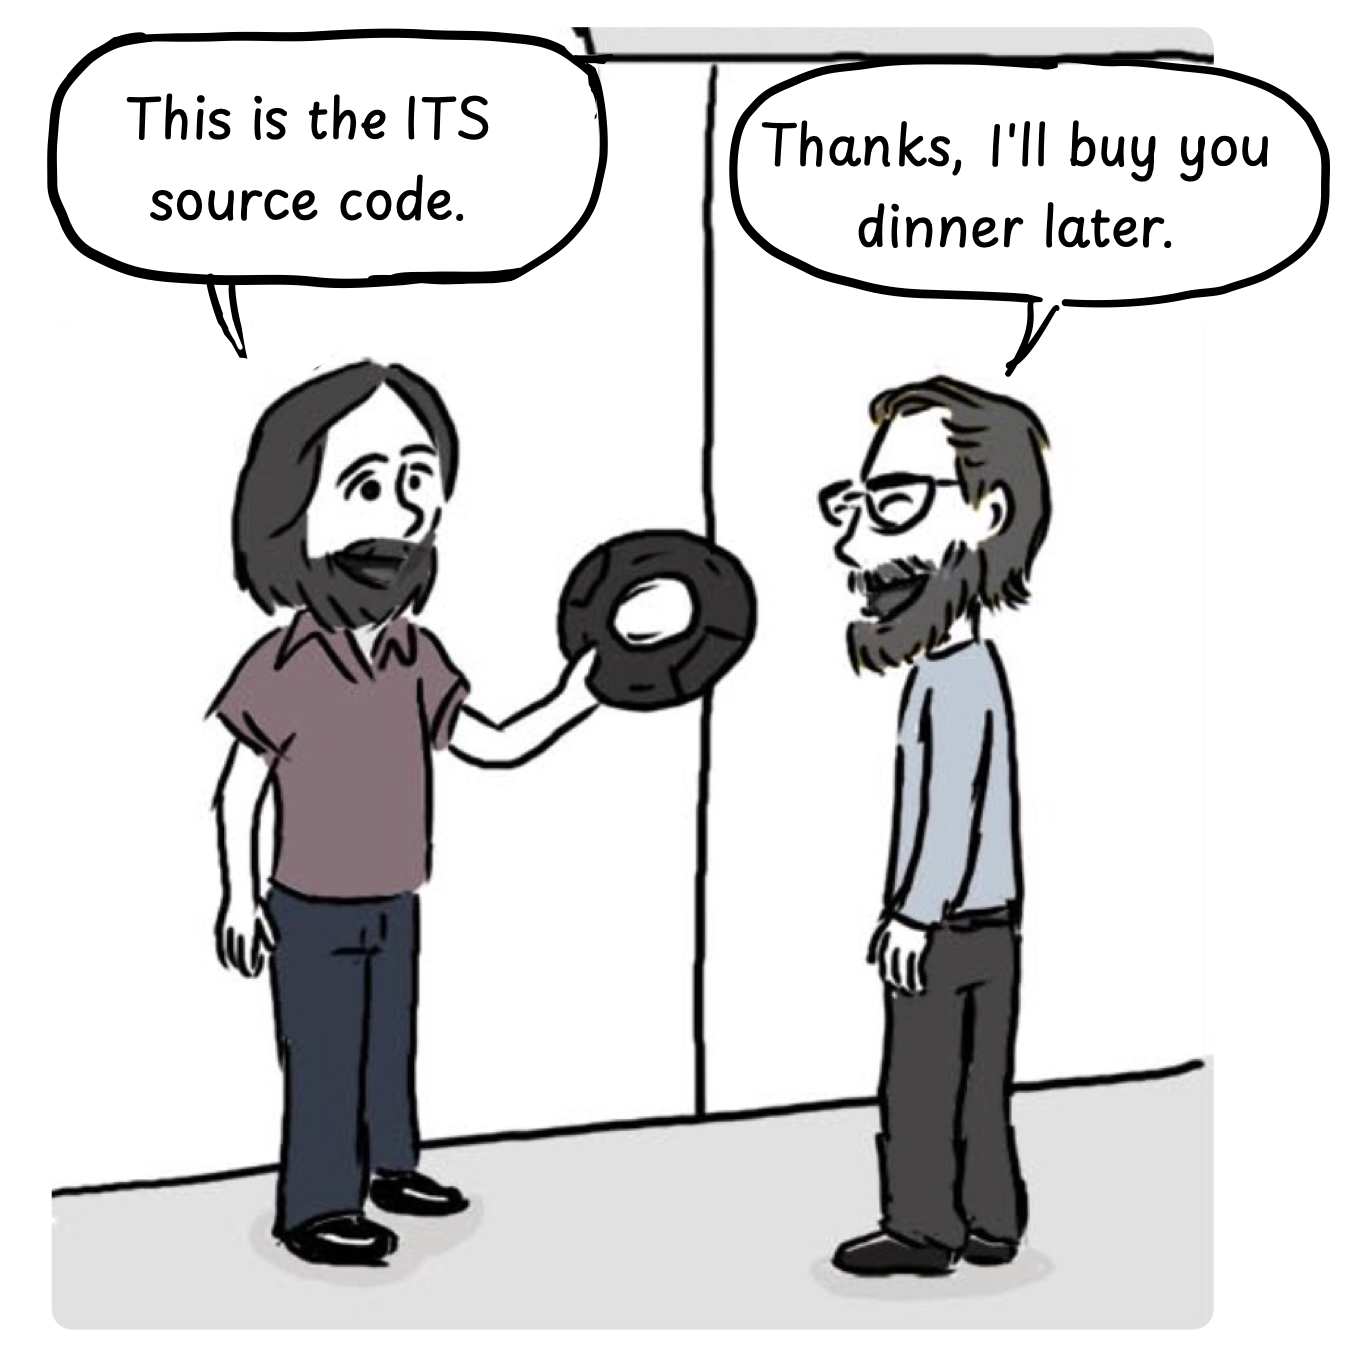
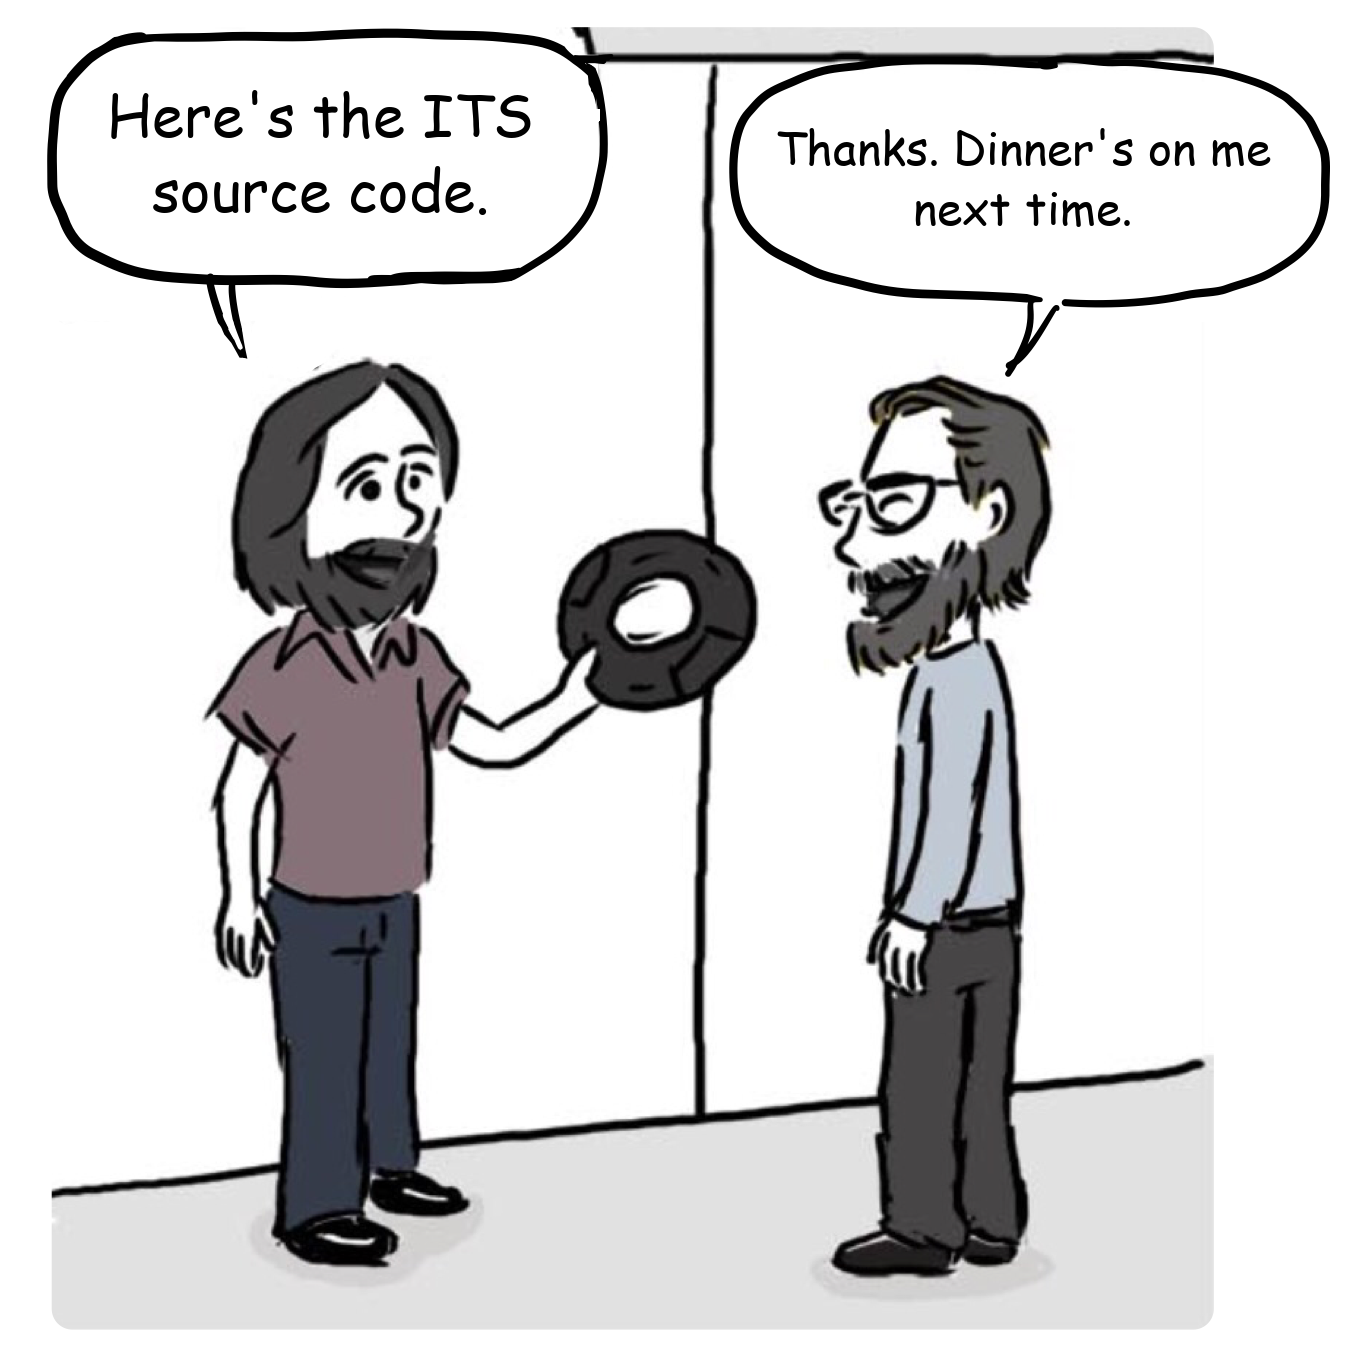
Revise ITS and hacker culture episode

Changed region(s): [[0.0619, 0.0615, 0.4021, 0.1845], [0.5567, 0.0922, 0.9588, 0.1845]]

diff --git a/content/posts/7. ITS and Hacker Culture/index.md b/content/posts/7. ITS and Hacker Culture/index.md
@@ -6,98 +6,100 @@ description: The hacker culture at MIT began with the Tech Model Railroad Club, 
 tags: ITS, Hacker, PDP-1, PDP-6, DEC, ARPAnet, MIT AI Lab, Multics
 ---
 
-The hacker culture started with the [Tech Model Railroad Club](https://www.google.com/url?q=https://en.wikipedia.org/wiki/Tech_Model_Railroad_Club\&sa=D\&source=editors\&ust=1711344849233469\&usg=AOvVaw2jW8lhPjzCxir-TXAa-SBG) at MIT. This club made moving model trains and studied how the trains would not collide with each other[&lbrack;1&rbrack;][1].
+Hacker culture began with MIT's [Tech Model Railroad Club](https://en.wikipedia.org/wiki/Tech_Model_Railroad_Club). Its members built working model trains and studied how to keep them from colliding[&lbrack;1&rbrack;][1].
 
 ![](images/7-1.png)
-> “How can we keep trains from colliding with each other?”\
-> "Well"\
-> "Wouldn't it be possible to control the trains with the newly introduced computer PDP-1?"
+> "How do we keep the trains from crashing?"\
+> "Hmm..."\
+> "What if we controlled them with the new PDP-1?"
 
 ![](images/7-2.png)
-> “You control the trains with PDP-1?” \
-> “Yeah, we can implement a train control program.”
+> "Control the trains with the PDP-1?" \
+> "Sure. We'd just write a control program."
 
-For reference, the video below shows why a computer is needed to control a moving model train.
+The video below shows why a computer was needed to control moving model trains.
 <div style="text-align:center">
 <iframe width="560" height="315" src="https://www.youtube.com/embed/dqLUUXWgba4?si=f4QZp3gTxWdDRnrt" title="YouTube video player" frameborder="0" allow="accelerometer; autoplay; clipboard-write; encrypted-media; gyroscope; picture-in-picture; web-share" referrerpolicy="strict-origin-when-cross-origin" allowfullscreen></iframe>
 </div>
 
-The PDP models made by [DEC](https://www.google.com/url?q=https://en.wikipedia.org/wiki/Programmed_Data_Processor\&sa=D\&source=editors\&ust=1711344849234212\&usg=AOvVaw3XYWFQH-2tnwXYFckFfCPg) contributed greatly to the hacker culture and the birth of free software. It was a kind of mini computer that was sold at a relatively low price and was particularly popular in universities. For reference, DEC donated a PDP-1 to MIT in 1961[&lbrack;2&rbrack;][2].
+The [PDP series](https://en.wikipedia.org/wiki/Programmed_Data_Processor), made by Digital Equipment Corporation (DEC), became closely associated with hacker culture and the early free software community. These comparatively affordable computers were especially popular at universities. DEC donated a PDP-1 to MIT in 1961[&lbrack;2&rbrack;][2].
 
 ![](images/7-3.png "size:80%")
-> “What is this round thing?” \
-> "I think it's a computer display that you can use to view and interact with this computer."
+> "What's that round thing?" \
+> "That? It's the display. It shows you what the computer's doing."
 
-After that, students interested in train control in the Tech Model Railway Club spend more time with the PDP-1.
+TMRC members who were fascinated by the machine soon began spending more and more time with the PDP-1.
 
 ![](images/7-4.png "size:70%")
 
 ![](images/7-5.png "size:70%")
-> “What, the electricity bill is so high!”
+> "How did the electric bill get this high?"
 
 ![](images/7-6.png "size:80%")
-> “Keep the computer room door closed at night.” \
-> “Just make model trains if these guys aren't going to study."
+> "Lock the computer room at night." \
+> "They don't study... They should just build model trains."
 
 ![](images/7-7.png "size:90%")
-> “The door is locked.” \
-> “Yeah, we should just have ordered a pizza without going out for dinner.”
+> "Locked out after dinner." \
+> "Should've ordered pizza."
 
 ![](images/7-8.png "size:90%")
-> “Do I really have to do this?” \
-> “This is a historic moment in making the first video game.”
+> "Do I really have to do this?" \
+> "Of course. This is history. The first video game is being made right now!"
 
 ![](images/7-9.png "size:70%")
 
-And, for fun, the students created the first ever video game called [Spacewar!](https://en.wikipedia.org/wiki/Spacewar!)
+For fun, the students created [Spacewar!](https://en.wikipedia.org/wiki/Spacewar!), one of the earliest and most influential video games.
 
 ![](images/7-10.png "size:80%")
-> “Mission complete,  I’m gonna go to the AI Lab.”
+> "Mission accomplished. I'm off to the AI Lab."
 
-At the time, the MIT Artificial Intelligence Lab (AI Lab) was the birthplace of hacker culture, and it was developing an operating system called [Multics](https://en.wikipedia.org/wiki/Multics) with GE and Bell Labs. However, due to different opinions on operating system development, they began to develop their own operating system called ITS (Incompatible Time Sharing System) from the late 1960s.
+At the time, the AI group within MIT's [Project MAC](https://en.wikipedia.org/wiki/Project_MAC) was a center of hacker culture[&lbrack;4&rbrack;][4]. Project MAC was also developing an operating system called Multics with General Electric and Bell Labs. Many programmers in the AI group disagreed with the direction of Multics, so in the late 1960s they began developing their own operating system: ITS (Incompatible Timesharing System).
 
 ![](images/7-11.png "size:80%")
-> “When the heck does Multics development end?”\
-> “Should we rather create our own operating system?”
+> "Is Multics ever going to be finished?"\
+> "Why don't we build our own operating system?"
 
-MIT hacker [Tom Knight](https://en.wikipedia.org/wiki/Tom_Knight_(scientist))(right) developed the first kernel for ITS.
+MIT hacker [Tom Knight](https://en.wikipedia.org/wiki/Tom_Knight_(scientist)) (right) developed the first ITS kernel.
 
 ![](images/7-12.png)
-> “We had created a compatible time sharing system before, so let's name it ITS.” \
-> “Incompatible time sharing system?”
+> "MIT had the Compatible Time-Sharing System. Let's call this one ITS." \
+> "Incompatible Timesharing System?"
 
-Actual development started on the PDP-6 and it was all written in assembly
+Development began on the PDP-6, and the system was written in assembly language.
 
 ![](images/7-13.png "size:70%")
-> “I am making ITS in assembly.”
+> "I'm writing ITS in assembly."
 
-At the time, ITS operating system had a unique user environment that could not be found today. In the early days, anyone could log in to the system without a password. All files, including documentation and source code, could be edited by anyone.
+ITS had a remarkably open environment. In its early days, users could log in without a password, and the system did not enforce file permissions. Anyone with access could edit files, including documentation and source code.
 
 ![](images/7-14.png "size:80%")
-> "There is no password!" \
-> “Anyone can edit files”
+> "No password?" \
+> "And anyone can edit the files."
 
-In addition, it was possible to access ITS not only inside MIT, but also from other institutions or schools through ARPAnet. The wide-open  ITS philosophy and  collaborative online community had a great impact on hacker culture, and also on free/open source and wiki movements[&lbrack;3&rbrack;][3].
+ITS was accessible not only from inside MIT but also from other institutions connected through ARPANET. Its open philosophy and collaborative online community deeply influenced hacker culture and foreshadowed the open sharing and collaborative editing later found in free and open source software projects and wikis[&lbrack;3&rbrack;][3].
 
 ![](images/7-15.png "Access to ITS from other universities")
 
 
-Richard Stallman, who later started the free software movement, also participated in the development of the ITS operating system as a member of the community while working at the MIT AI Lab from 1971, where he was influenced by the hacker culture.
+Richard Stallman, who later launched the free software movement, joined the MIT AI Lab community in 1971. He worked on ITS and was deeply influenced by the Lab's hacker culture.
 
 ![](images/7-16.png "size:80%")
 
-Until then, software was recognized as a bundle of hardware and was copied and used without paying each other. Companies also distributed their software for free, allowing the users to modify and copy it.
+At research labs such as MIT, programmers commonly shared software and source code. Software often came bundled with hardware, and users adapted and passed it along without separate licensing fees.
 
 ![](images/7-17.png "size:80%")
-> "This is the ITS source code." \
-> "Thanks, I'll buy you dinner later."
+> "Here's the ITS source code." \
+> "Thanks. Dinner's on me next time."
 
 ## References
 
 1. Hacker, [Wikipedia](https://en.wikipedia.org/wiki/Hacker)
 2. PDP-1, [Wikipedia](https://en.wikipedia.org/wiki/PDP-1)
 3. Incompatible Timesharing System, [wikipedia](https://en.wikipedia.org/wiki/Incompatible\_Timesharing\_System)
+4. Project MAC, [Wikipedia](https://en.wikipedia.org/wiki/Project_MAC)
 
 [1]: https://en.wikipedia.org/wiki/Hacker "Hacker, Wikipedia"
 [2]: https://en.wikipedia.org/wiki/PDP-1 "PDP-1, Wikipedia"
 [3]: https://en.wikipedia.org/wiki/Incompatible\_Timesharing\_System "Incompatible Timesharing System, Wikipedia"
+[4]: https://en.wikipedia.org/wiki/Project_MAC "Project MAC, Wikipedia"
